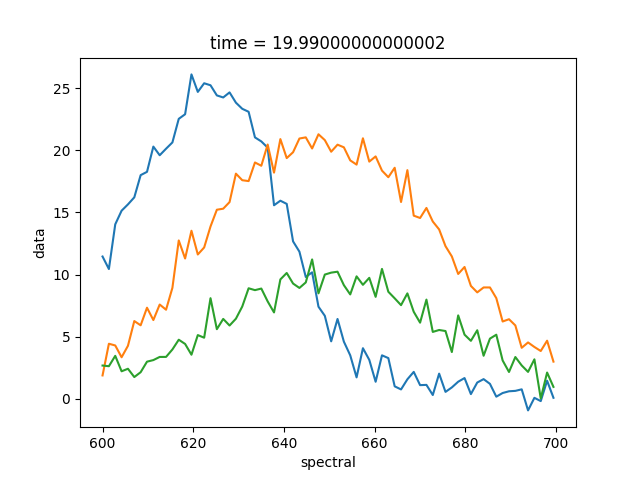
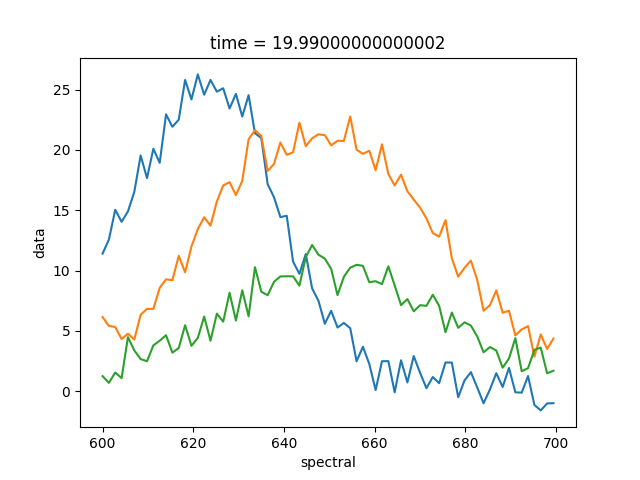
worked on documentation

diff --git a/glotaran/model/model.py b/glotaran/model/model.py
@@ -1,5 +1,6 @@
 from collections import OrderedDict
 from typing import Dict, List
+import functools
 
 from glotaran.parse.register import register_model
 
@@ -30,6 +31,14 @@ def model(name,
         setattr(cls, 'additional_residual_function',
                 additional_residual_function)
         setattr(cls, 'allow_grouping', allow_grouping)
+        cls.__doc__ += '''
+        
+        Attributes
+        ----------
+        allow_grouping:
+            Indicates if the model is allowed to group data along the estimated_axis.
+
+        '''
 
         def c_mat(self, c_mat=calculated_matrix):
             return c_mat
@@ -42,7 +51,9 @@ def model(name,
         setattr(cls, 'estimated_axis', estimated_axis)
 
         if not hasattr(cls, '__annotations__'):
-            setattr(cls, '__annotations__', {})
+            setattr(cls, '__annotations__', {
+                'allow_grouping': bool,
+            })
         else:
             setattr(cls, '__annotations__',
                     getattr(cls, '__annotations__').copy())
@@ -68,36 +79,17 @@ def model(name,
 
             if getattr(attr_type, '_glotaran_has_label'):
 
-                def get_item(self, label: str, attr_name=attr_name):
-                    return getattr(self, attr_name)[label]
+                get_item = _create_get_func(cls, attr_name, attr_type)
+                setattr(cls, get_item.__name__, get_item)
 
-                setattr(cls, f"get_{attr_name}", get_item)
-
-                def set_item(self, label: str, item: attr_type,
-                             attr_name=attr_name,
-                             attr_type=attr_type):
-
-                    # TODO checked typed items
-                    if not isinstance(item, attr_type) and \
-                            not hasattr(attr_type, "_glotaran_model_item_typed"):
-                        raise TypeError
-                    getattr(self, attr_name)[label] = item
-
-                setattr(cls, f"set_{attr_name}", set_item)
+                set_item = _create_set_func(cls, attr_name, attr_type)
+                setattr(cls, set_item.__name__, set_item)
                 setattr(cls, attr_name, {})
 
             else:
-                def add_item(self, item: attr_type,
-                             attr_name=attr_name,
-                             attr_type=attr_type):
 
-                    # TODO checked typed items
-                    if not isinstance(item, attr_type) and \
-                            not hasattr(attr_type, "_glotaran_model_item_typed"):
-                        raise TypeError
-                    getattr(self, attr_name).append(item)
-
-                setattr(cls, f"add_{attr_name}", add_item)
+                add_item = _create_add_func(cls, attr_name, attr_type)
+                setattr(cls, add_item.__name__, add_item)
                 setattr(cls, attr_name, [])
 
         def init(self, cls=cls, attributes=attributes):
@@ -115,3 +107,86 @@ def model(name,
         return cls
 
     return decorator
+
+
+def _create_add_func(cls, name, type):
+
+    def add_item(self, item):
+
+        # TODO checked typed items
+        if not isinstance(item, type) and \
+                not hasattr(type, "_glotaran_model_item_typed"):
+            raise TypeError
+        getattr(self, name).append(item)
+
+    add_item.__annotations__ = {
+        'item': type,
+    }
+    add_item.__name__ = f'add_{name}'
+    add_item.__qualname__ = cls.__name__ + '.' + add_item.__name__
+    add_item.__module__ = cls.__module__
+    add_item.__doc__ = f'''
+    Adds an `{type.__name__}` object.
+
+    Parameters
+    ----------
+    item :
+        The `{type.__name__}` item.
+    '''
+
+    return add_item
+
+
+def _create_get_func(cls, name, type):
+
+    def get_item(self, label):
+        return getattr(self, name)[label]
+
+    get_item.__annotations__ = {
+        'label': str,
+        'return': type,
+    }
+    get_item.__name__ = f'get_{name}'
+    get_item.__qualname__ = cls.__qualname__ + '.' + get_item.__name__
+    get_item.__module__ = cls.__module__
+    get_item.__doc__ = f'''
+    Returns the `{type.__name__}` object with the given label.
+
+    Parameters
+    ----------
+    label :
+        The label of the `{type.__name__}` object.
+    '''
+
+    return get_item
+
+
+def _create_set_func(cls, name, type):
+
+    def set_item(self, label, item):
+
+        # TODO checked typed items
+        if not isinstance(item, type) and \
+                not hasattr(type, "_glotaran_model_item_typed"):
+            raise TypeError
+        getattr(self, name)[label] = item
+
+    set_item.__annotations__ = {
+        'label': str,
+        'item': type,
+    }
+    set_item.__name__ = f'set_{name}'
+    set_item.__qualname__ = cls.__qualname__ + '.' + set_item.__name__
+    set_item.__module__ = cls.__module__
+    set_item.__doc__ = f'''
+    Sets the `{type.__name__}` object with the given label with to the item.
+
+    Parameters
+    ----------
+    label :
+        The label of the `{type.__name__}` object.
+    item :
+        The `{type.__name__}` item.
+    '''
+
+    return set_item

diff --git a/glotaran/model/base_model.py b/glotaran/model/base_model.py
@@ -123,29 +123,23 @@ class BaseModel:
                  noise: bool = False,
                  noise_std_dev: float = 1.0,
                  noise_seed: int = None,
-                 ) -> xr.DataArray:
+                 ) -> xr.Dataset:
         """Simulates the model.
 
         Parameters
         ----------
-        dataset : str
+        dataset :
             Label of the dataset to simulate
-        parameter : glotaran.model.ParameterGroup
+        parameter :
             The parameters for the simulation.
         axis : Dict[str, np.ndarray]
             A dictory with axis
-        noise : bool, optional
-            (Default = False)
+        noise :
             If `True` noise is added to the simulated data.
-        noise_std_dev : float
-            (Default value = 1.0)
+        noise_std_dev :
             the standart deviation of the noise.
-        noise_seed : int, optional
+        noise_seed :
             Seed for the noise.
-
-        Returns
-        -------
-        data: xr.DataArray
         """
         return simulate(self, parameter, dataset, axis, noise=noise,
                         noise_std_dev=noise_std_dev, noise_seed=noise_seed)
@@ -162,39 +156,30 @@ class BaseModel:
 
         Parameters
         ----------
-        data : dict(str, union(xr.Dataset, xr.DataArray))
+        data :
             A dictonary containing all datasets with their labels as keys.
         parameter : glotaran.model.ParameterGroup
             The parameter,
-        nnls : bool, optional
+        nnls :
             (default = False)
             If `True` non-linear least squaes optimizing is used instead of variable projection.
-        verbose : bool, optional
+        verbose :
             (default = True)
             If `True` feedback is printed at every iteration.
-        max_nfev : int, optional
+        max_nfev :
             (default = None)
             Maximum number of function evaluations. `None` for unlimited.
-        group_atol : float, optional
+        group_atol :
             (default = 0)
             The tolerance for grouping datasets along the estimated axis.
 
-        Returns
-        -------
-        result: glotaran.analysis.fitresult.FitResult 
-            The result of the fit.
         """
         result = FitResult(self, data, parameter, nnls, atol=group_atol)
         result.optimize(verbose=verbose, max_nfev=max_nfev)
         return result
 
     def errors(self) -> typing.List[str]:
-        """Returns a list of errors in the model.
-
-        Returns
-        -------
-        errors : list(str)
-        """
+        """Returns a list of errors in the model."""
         attrs = getattr(self, '_glotaran_model_attributes')
 
         errors = []
@@ -211,13 +196,7 @@ class BaseModel:
         return errors
 
     def valid(self) -> bool:
-        """valid checks the model for errors.
-
-        Returns
-        -------
-        valid : bool
-            False if at least one error in the model, else True.
-        """
+        """valid checks the model for errors.  """
         return len(self.errors()) is 0
 
     def errors_parameter(self, parameter: ParameterGroup) -> typing.List[str]:
@@ -225,11 +204,8 @@ class BaseModel:
 
         Parameters
         ----------
-        parameter : glotaran.model.ParameterGroup
-
-        Returns
-        -------
-        errors : list(str)
+        parameter :
+            The parameter to validate
         """
         attrs = getattr(self, '_glotaran_model_attributes')
 
@@ -251,12 +227,8 @@ class BaseModel:
 
         Parameters
         ----------
-        parameter : glotaran.model.ParameterGroup
-
-        Returns
-        -------
-        valid : bool
-            False if at least one error in the parameter, else True.
+        parameter :
+            The parameter to validate
         """
         return len(self.errors_parameter(parameter)) is 0
 

diff --git a/docs/conf.py b/docs/conf.py
@@ -39,6 +39,7 @@ extensions = ['sphinx.ext.autodoc',
               'sphinx.ext.napoleon',
               'sphinx.ext.extlinks',
               'sphinx.ext.intersphinx',
+              'sphinx_autodoc_typehints',
               'IPython.sphinxext.ipython_console_highlighting',
               'IPython.sphinxext.ipython_directive',
               'm2r']

diff --git a/glotaran/analysis/fitresult.py b/glotaran/analysis/fitresult.py
@@ -6,6 +6,7 @@ import numpy as np
 import xarray as xr
 from lmfit.minimizer import Minimizer
 
+import glotaran
 from glotaran.model.parameter_group import ParameterGroup
 
 
